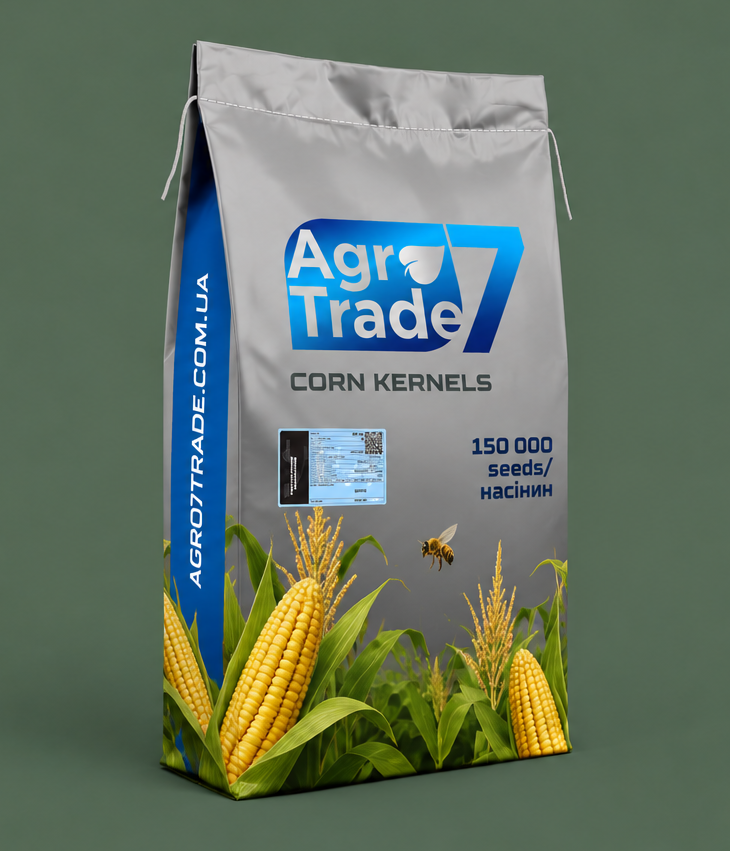
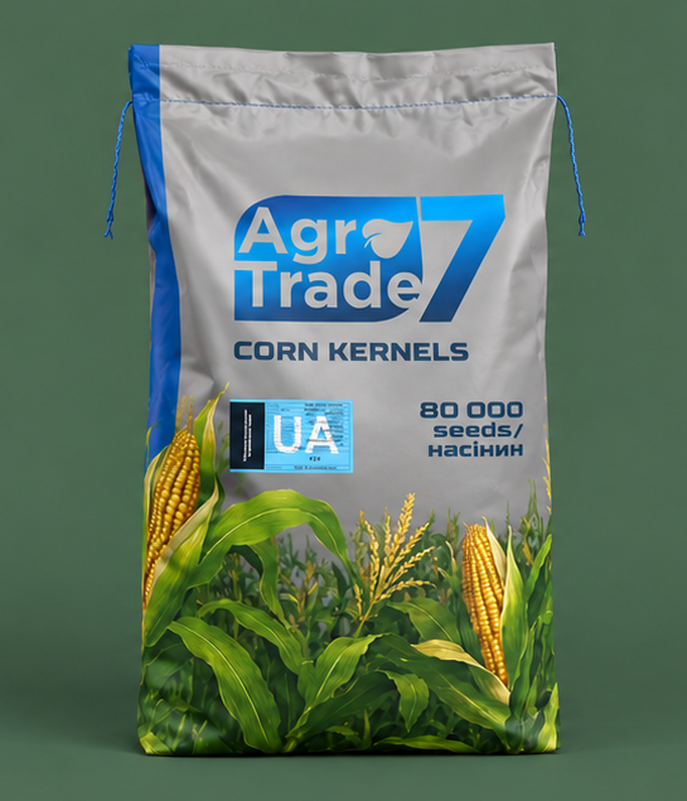
Use the new corn bag photo and restore bag images in category tiles
The owner supplied a corn bag photo with the correct 80 000 seed
count; it is cropped so the bag fills the frame at the same scale as
the sunflower bag. The category tiles go back to the owner's bag
renders instead of stock field photos.

diff --git a/src/lib/images.ts b/src/lib/images.ts
@@ -2,8 +2,8 @@ import type { ImageMetadata } from 'astro';
 import logo from '../assets/images/logo.png';
 import cornImg from '../assets/images/corn-pack.png';
 import sunflowerImg from '../assets/images/sunflower-pack.png';
-import cornCategoryImg from '../assets/images/corn-category.jpg';
-import sunflowerCategoryImg from '../assets/images/sunflower-category.jpg';
+import cornCategoryImg from '../assets/images/corn-category.png';
+import sunflowerCategoryImg from '../assets/images/sunflower-category.png';
 import fieldAngora from '../assets/images/field-angora.jpg';
 import fieldKaskara from '../assets/images/field-kaskara.jpg';
 import fieldSigiriya from '../assets/images/field-sigiriya.jpg';
